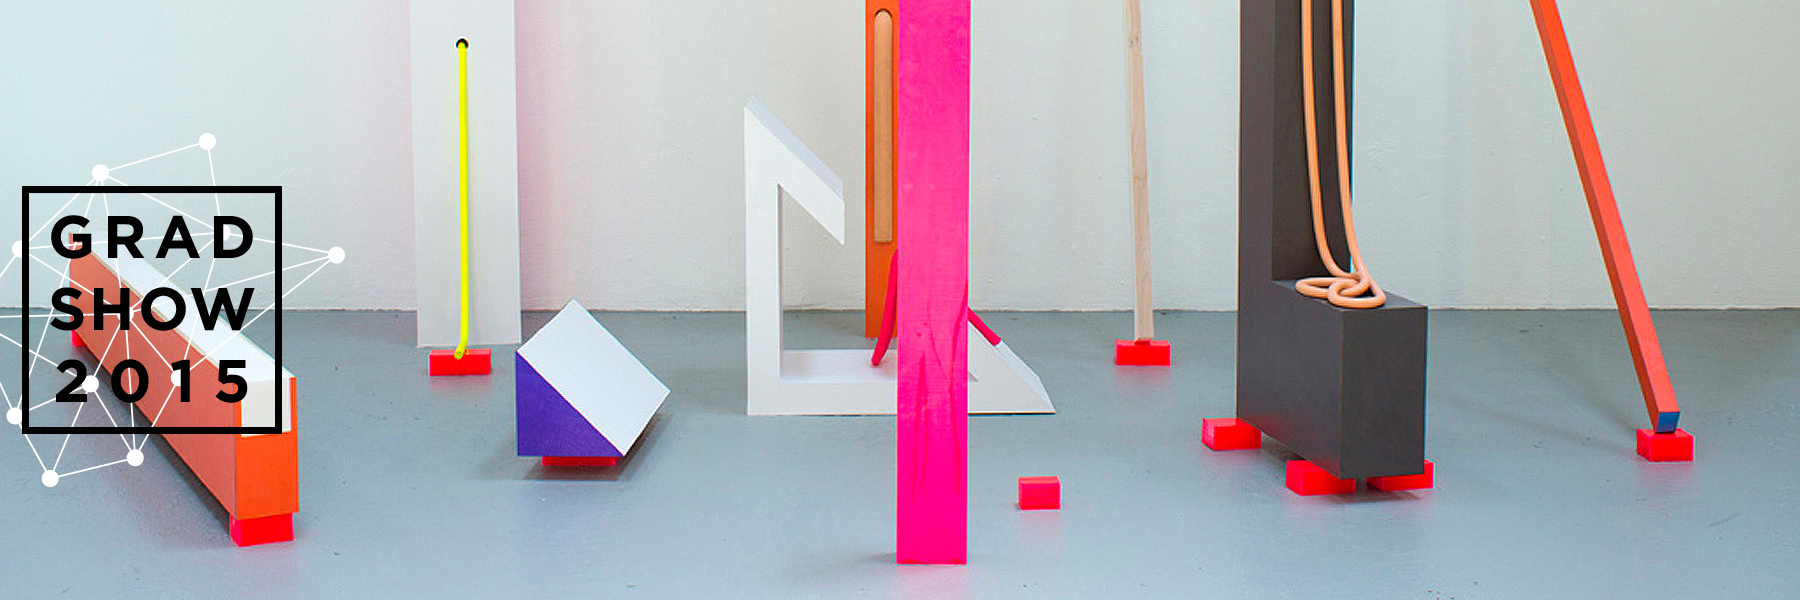
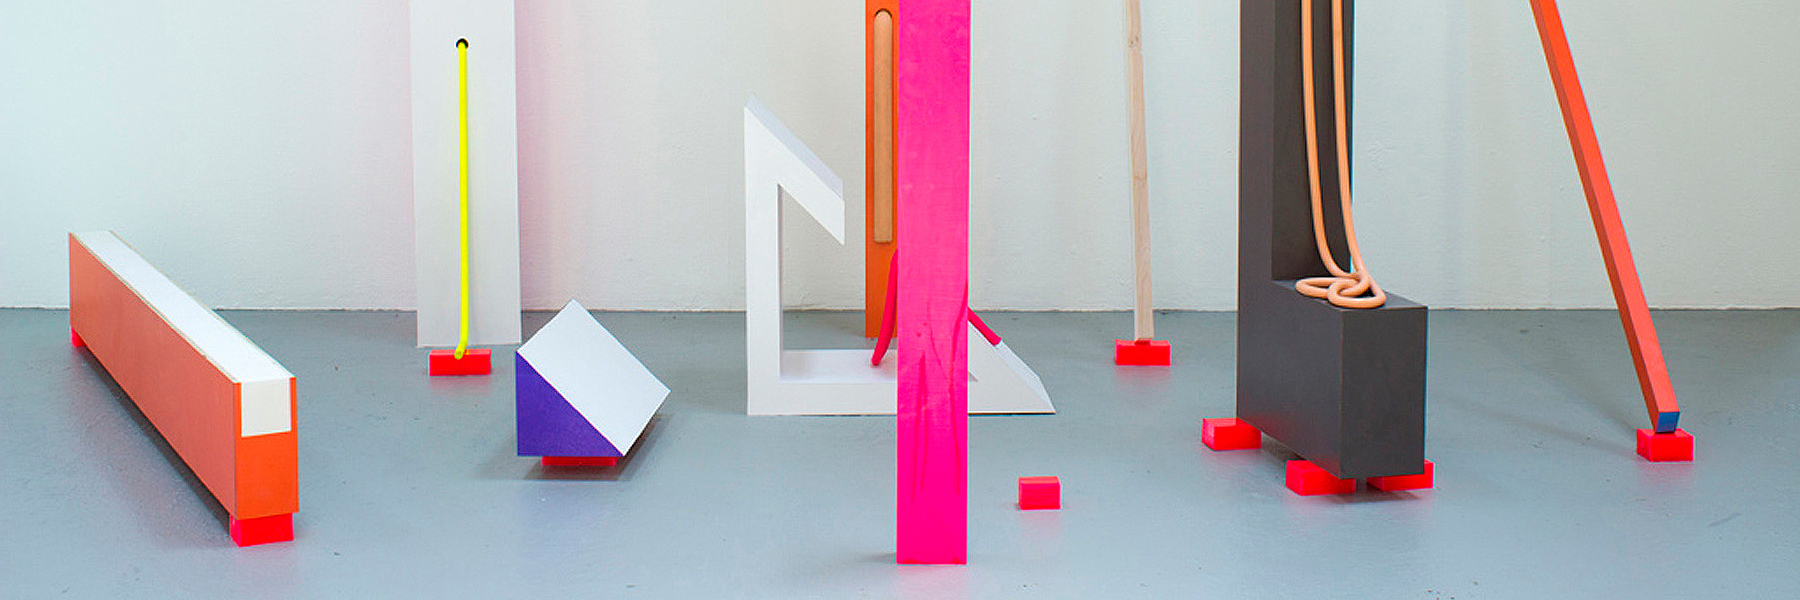
header classes

Changed region(s): [[0.0, 0.27, 0.1867, 0.78], [0.0933, 0.21, 0.1244, 0.27], [0.0, 0.78, 0.0622, 0.81]]

diff --git a/styles/amanda.less b/styles/amanda.less
@@ -1,11 +1,30 @@
 header {
-  background-image: url("id0513690.jpg");
   background-position: center center;
   background-repeat: no-repeat;
   background-size: cover;
   background-attachment: fixed;
   height: 100vh;
   width: 100vw;
+}
+
+.header-art-1{
+  background-image: url("id0513690.jpg");
+}
+
+.header-art-2{
+  background-image: url("id0495100.jpg");
+}
+
+.header-art-3{
+  background-image: url("id0516358.jpg");
+}
+
+.header-art-4{
+  background-image: url("id0516545.jpg");
+}
+
+.header-art-5{
+  background-image: url("id0479534.jpg");
 }
 
 body {

diff --git a/styles/studentoverlay.less b/styles/studentoverlay.less
@@ -219,6 +219,13 @@ text-decoration: none;
   border-bottom: 2px solid @pink;
 }
 
+ul.student-nav li.previous a{
+  font-weight: bold;
+  content: "u\2190";
+}
+
+
+
 /**** / END STUDENTOVERLAY.LESS ****/
 /**** / END STUDENTOVERLAY.LESS ****/
 /**** / END STUDENTOVERLAY.LESS ****/
